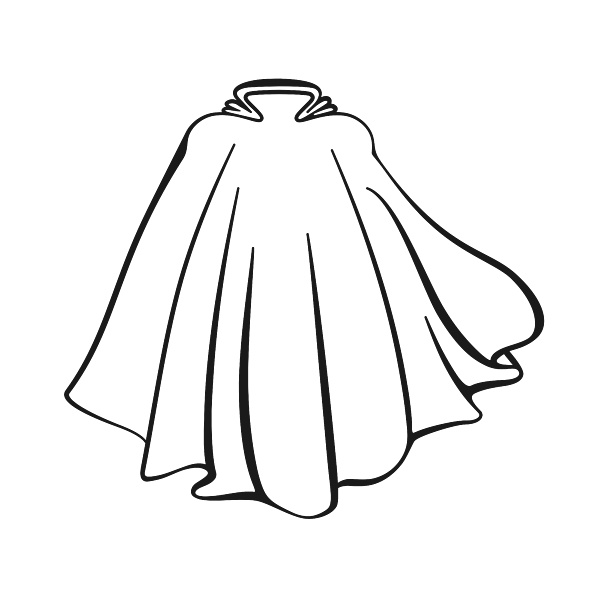
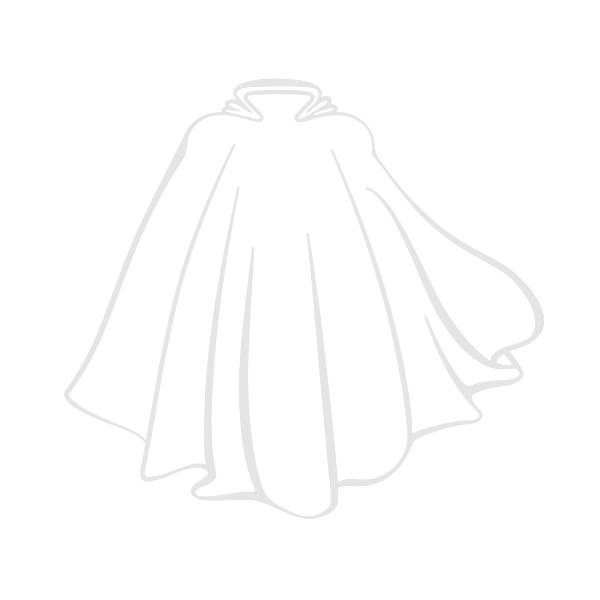
Inverts top graphics cape colors

diff --git a/frontend/src/components/TopGraphics.tsx b/frontend/src/components/TopGraphics.tsx
@@ -1,4 +1,3 @@
-// import Graphics from '../../images/graphics.svg';
 import Graphics from "../../images/superhero-cape.png";
 import Vaught from '../../images/vaught.png';
 
@@ -49,6 +48,7 @@ const TopGraphics: React.FC<MyComponentProps> = ({ showLogo = true, slogan = "" 
 					height: '400px',
 					marginLeft: '200px',
 					border: '1px solid rgba(0, 255, 255, 0.05)',
+					opacity: '0.25',
 				}}
 			/>
 			{showLogo ? (
